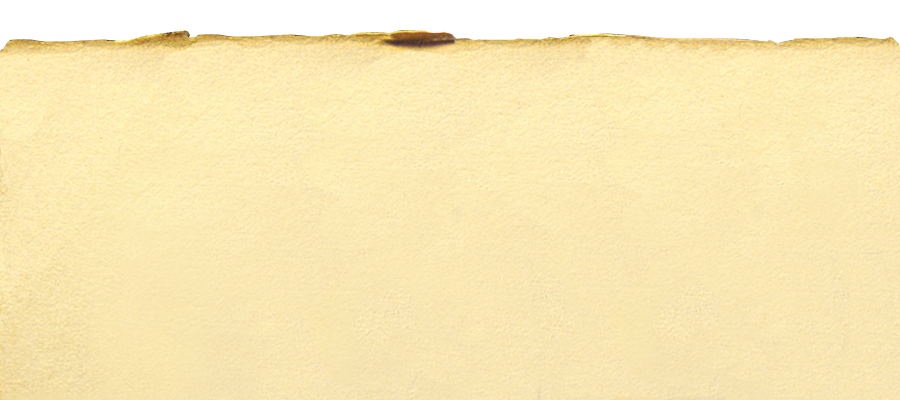
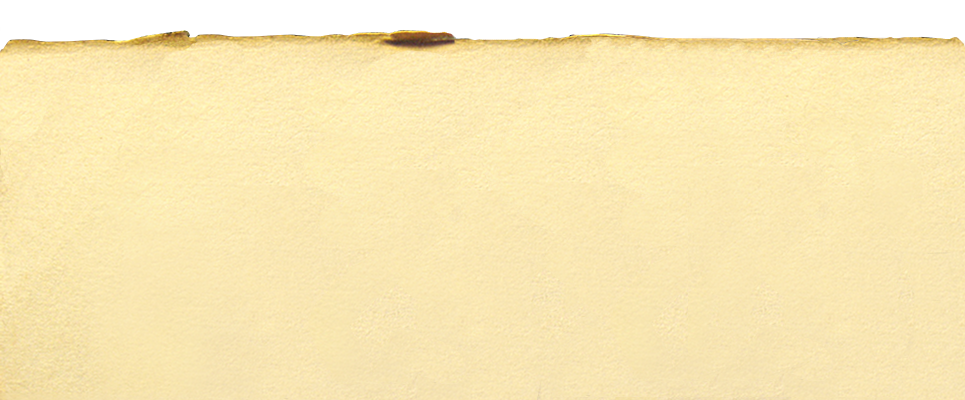
0002017: Narrative Web Report: Mainz Style needs to be widened (patch from Jason Simanek <jsimanek@gmail.com>)
git-svn-id: svn+ssh://svn.code.sf.net/p/gramps/code/trunk@10475 4ae1f11a-8b86-4847-b8af-ab372f36d1fd

Changed region(s): [[0.0311, 0.06, 0.9333, 0.15]]

diff --git a/src/data/NWeb-Screen_Mainz.css b/src/data/NWeb-Screen_Mainz.css
@@ -69,7 +69,7 @@ img {
 	background:none;
 }
 .content {
-	width:900px;
+	width:965px;
 	margin:0 auto;
 	padding-bottom:.5em;
 	background:url(images/NWeb_Mainz_Mid.png) #FFF2C6 repeat;
@@ -168,10 +168,10 @@ a:visited {
 /* Header/Navigation Styles */
 /* ------------------------------------------------------------------------------ */
 #Header {
-	width:900px;
+	width:965px;
 	margin:0 auto;
 	padding:5em 0 2px 0;
-	background:url(images/NWeb_Mainz_Header.png) no-repeat top;
+	background:url(images/NWeb_Mainz_Header.png) repeat-x top left;
 }
 #SiteTitle {
 	color:#7D5925;
@@ -197,7 +197,7 @@ a:visited {
 }
 #Navigation {
 	font-family:sans-serif;
-	width:900px;
+	width:965px;
 	margin:0 auto;
 	padding:0;
 	background:url(images/NWeb_Mainz_MidLight.png) #FFF2C6;
@@ -245,7 +245,7 @@ a:visited {
 /* Footer Styles */
 /* ------------------------------------------------------------------------------ */
 #footer {
-	width:900px;
+	width:965px;
 	margin:0 auto;
 	padding:0;
 	clear:both;
